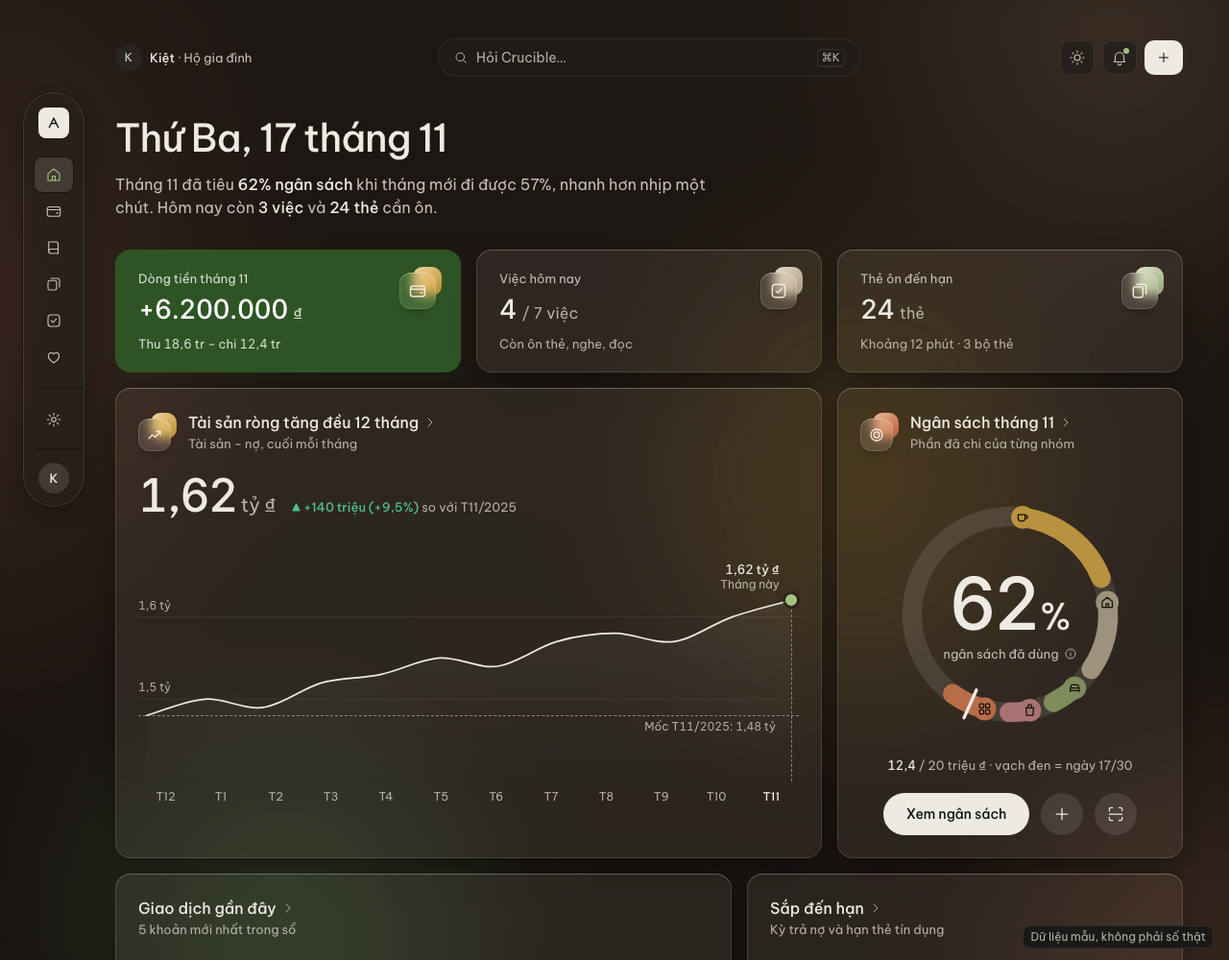
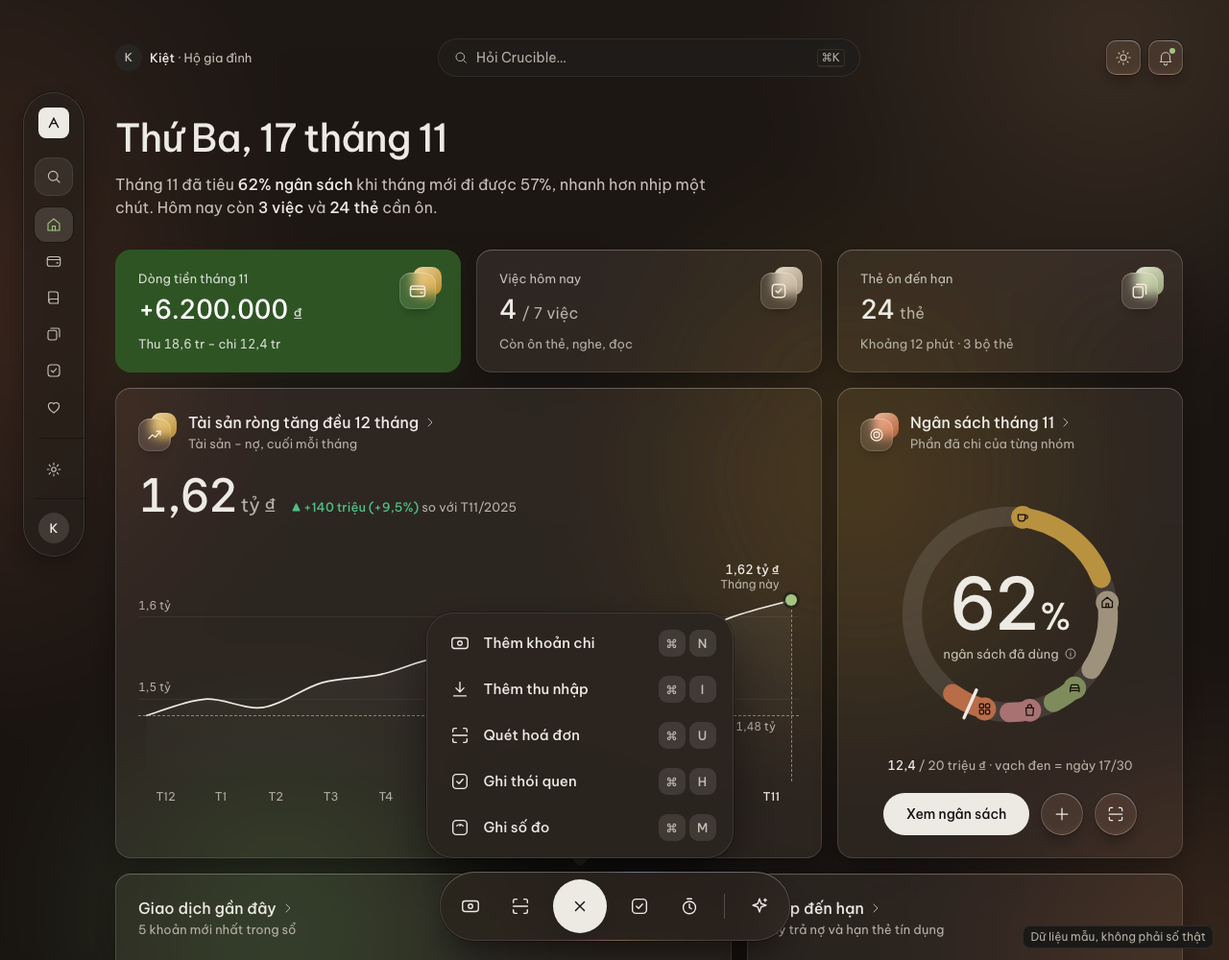
Demo sạch: Liquid Glass cho điều khiển nhỏ, dock thao tác nhanh + menu "+" (có tự ẩn ở 375px), sidebar có ô tìm và cây trạng thái hoá đơn, chồng phiếu ở thẻ chờ duyệt (dữ liệu mẫu)

diff --git a/1991-new-design/demo/clean/demo.html b/1991-new-design/demo/clean/demo.html
@@ -595,6 +595,162 @@ html[data-theme="dark"]{--pt-mix:64%;--pt-tint:.2;--on-bad:#16100B;--on-good:#16
 .bud .rg .st.g{color:var(--good-t);font-weight:500}.bud .rg .st.g i{background:var(--good)}
 @media (max-width:760px){.psplit{grid-template-columns:1fr;gap:20px}.hd.hs .segs{order:3;width:100%}.hd.hs .segs .seg{flex:1 1 auto}.hd.hs .segs .seg button{flex:1}
  .petal .pl .n{font-size:22px;line-height:24px}}
+
+/* =====================================================================
+   LIQUID GLASS cho điều khiển nhỏ (pin o2, o3): nút sáng/tối, chuông, công tắc, chip, nút tròn phụ.
+   Kính trong (trắng 30%), làm mờ CHỈ ở ::before. ::after là viền khúc xạ 1px: gradient hình nón
+   pastel (hồng đất, lavender nhạt, mật ong) ≤ 50% alpha, cắt bằng mask thành sợi mảnh — không neon.
+   Mục đang chọn của công tắc = viên trắng nổi. Chữ vẫn dùng --ink / --glass-muted (≥ 4.5:1).
+   ===================================================================== */
+:root{--lg-fill:rgba(255,255,255,.30);
+  --lg-edge:inset 0 1px 1px rgba(255,255,255,.95),inset 0 -6px 12px -6px rgba(255,255,255,.55),inset 0 0 0 1px rgba(255,255,255,.55),0 0 0 1px rgba(60,40,25,.07),0 8px 18px -6px rgba(60,40,25,.20);
+  --lg-ring:conic-gradient(from 200deg,rgba(255,150,185,.55),rgba(255,255,255,0) 17%,rgba(255,255,255,0) 40%,rgba(140,180,255,.45) 54%,rgba(255,255,255,0) 70%,rgba(255,200,140,.5) 90%,rgba(255,150,185,.55));
+  --lg-on:rgba(255,255,255,.97);
+  --lg-on-sh:0 0 0 1px rgba(255,255,255,.9),0 3px 8px -1px rgba(60,40,25,.22),0 1px 2px rgba(60,40,25,.10)}
+html[data-theme="dark"]{--lg-fill:rgba(255,255,255,.07);
+  --lg-edge:inset 0 1px 1px rgba(255,255,255,.22),inset 0 -6px 12px -6px rgba(255,255,255,.08),inset 0 0 0 1px rgba(255,255,255,.12),0 0 0 1px rgba(0,0,0,.25),0 8px 18px -6px rgba(0,0,0,.5);
+  --lg-ring:conic-gradient(from 200deg,rgba(255,150,185,.34),rgba(255,255,255,0) 17%,rgba(255,255,255,0) 40%,rgba(140,180,255,.30) 54%,rgba(255,255,255,0) 70%,rgba(255,200,140,.32) 90%,rgba(255,150,185,.34));
+  --lg-on:rgba(255,255,255,.17);
+  --lg-on-sh:0 0 0 1px rgba(255,255,255,.2),0 3px 8px -1px rgba(0,0,0,.5)}
+html .round:not(.btn),html[data-theme="dark"] .round:not(.btn),html .ringact .rb{background:transparent;box-shadow:none;position:relative;z-index:0;isolation:isolate}
+html .round:not(.btn)::before,html .ringact .rb::before,html .seg::before,html .chip::before{content:"";position:absolute;inset:0;border-radius:inherit;z-index:-1;pointer-events:none;
+  background:var(--lg-fill);-webkit-backdrop-filter:var(--glass-blur);backdrop-filter:var(--glass-blur);box-shadow:var(--lg-edge)}
+html .card .chip::before,html .card .seg::before{background:var(--lg-fill);-webkit-backdrop-filter:none;backdrop-filter:none}
+html[data-theme="dark"] .card .chip::before,html[data-theme="dark"] .card .seg::before{background:rgba(255,255,255,.08)}
+html .round:not(.btn)::after,html .ringact .rb::after,html .seg::after,html .chip::after,.dock::after{content:"";position:absolute;inset:0;border-radius:inherit;padding:1px;pointer-events:none;z-index:1;
+  background:var(--lg-ring);-webkit-mask:linear-gradient(#000 0 0) content-box,linear-gradient(#000 0 0);-webkit-mask-composite:xor;mask:linear-gradient(#000 0 0) content-box exclude,linear-gradient(#000 0 0)}
+html .ringact .rb{color:var(--ink)}
+html .seg button.on{background:var(--lg-on);box-shadow:var(--lg-on-sh);color:var(--ink)}
+html .round:not(.btn):hover::before,html .ringact .rb:hover::before{background:rgba(255,255,255,.5)}
+html[data-theme="dark"] .round:not(.btn):hover::before{background:rgba(255,255,255,.12)}
+html .mtop .iconbtn:hover{background:transparent}
+
+/* =====================================================================
+   SIDEBAR bung (pin o5): ô tìm ở đầu · hàng rê = nền xám nhạt bo tròn · cây trạng thái hoá đơn
+   dưới Tài chính (mặc định ĐÓNG; chỉ hiện khi sidebar đã bung). Đường cây mảnh nối các mục con.
+   ===================================================================== */
+.sq{display:flex;align-items:center;gap:10px;height:40px;padding:0 11px;margin-bottom:12px;border-radius:14px;background:rgba(60,40,25,.06);box-shadow:inset 0 0 0 1px rgba(60,40,25,.06);color:var(--glass-muted);white-space:nowrap;cursor:text}
+.sq svg{width:18px;height:18px;flex:none}
+.sq input{flex:1;min-width:0;border:0;background:none;font:inherit;color:var(--ink);outline:none}
+.sq input::placeholder{color:var(--glass-muted)}
+.sq:focus-within{background:rgba(255,255,255,.7)}
+.side:not(.open,:focus-within,.pinned) .sq{width:40px}
+html .side .nav{border-radius:12px}
+html .side .nav:hover{background:rgba(60,40,25,.07)}
+html .side .nav.on:hover{background:var(--glass-on)}
+.navrow{display:flex;align-items:center}
+.navrow .nav{flex:1;padding-right:36px}
+.tg{width:28px;height:28px;margin-left:-32px;border-radius:9px;display:grid;place-items:center;flex:none;color:var(--glass-muted);position:relative;z-index:1;transition:background-color 150ms var(--ease)}
+.tg:hover{background:rgba(60,40,25,.09)}
+.tg svg{width:14px;height:14px;fill:currentColor;stroke-width:1.5;transition:transform 180ms var(--ease)}
+.grp.exp .tg svg{transform:rotate(90deg)}
+.side:not(.open,:focus-within,.pinned) .tg{display:none}
+.tree{display:none;position:relative;margin:2px 0 4px 20px}
+.side:is(.open,:focus-within,.pinned) .grp.exp .tree{display:block}
+.tree::before{content:"";position:absolute;left:0;top:0;bottom:19px;border-left:1px solid rgba(60,40,25,.2)}
+.sub{position:relative;display:flex;align-items:center;gap:10px;width:100%;height:34px;margin:0;padding:0 10px 0 24px;border-radius:10px;font-size:14px;font-weight:500;color:var(--ink2);text-align:left;white-space:nowrap;transition:background-color 150ms var(--ease),color 150ms var(--ease)}
+.sub::before{content:"";position:absolute;left:0;top:50%;width:14px;height:0;border-top:1px solid rgba(60,40,25,.2)}
+.sub:last-child::before{top:50%;border-radius:0 0 0 8px}
+.sub:hover,.sub.cur{background:rgba(60,40,25,.07);color:var(--ink)}
+.sub svg{width:16px;height:16px;flex:none}
+.sub.w svg{color:var(--warn)}.sub.g svg{color:var(--good)}.sub.x svg{color:var(--bad)}
+.sub .cnt{margin-left:auto;font-size:13px;line-height:16px;color:var(--glass-muted)}
+html[data-theme="dark"] .sq{background:rgba(255,255,255,.07);box-shadow:inset 0 0 0 1px rgba(255,255,255,.08)}
+html[data-theme="dark"] .side .nav:hover,html[data-theme="dark"] .sub:hover,html[data-theme="dark"] .sub.cur,html[data-theme="dark"] .tg:hover{background:rgba(255,255,255,.08)}
+html[data-theme="dark"] .tree::before,html[data-theme="dark"] .sub::before{border-color:rgba(255,255,255,.2)}
+html[data-theme="dark"] .sq:focus-within{background:rgba(255,255,255,.12)}
+
+/* =====================================================================
+   DOCK thao tác nhanh + MENU bật lên (pin o4, o1). Dock = kính nổi giữa đáy màn hình (máy tính).
+   Nút + giữa dock là viên mực đặc (o3); bấm → menu kính gần đặc phía trên, caret chỉ xuống nút.
+   Điện thoại: KHÔNG có dock (đã gỡ 23/10/2026); nút + trên thanh trên mở cùng menu dạng sheet đáy.
+   ===================================================================== */
+:root{--q-solid:rgba(253,250,245,.94);--q-row:rgba(60,40,25,.07);--q-kc:rgba(60,40,25,.07);--q-kc-hi:#FFFFFF}
+html[data-theme="dark"]{--q-solid:rgba(42,36,31,.95);--q-row:rgba(255,255,255,.09);--q-kc:rgba(255,255,255,.10);--q-kc-hi:rgba(255,255,255,.2)}
+.main{padding-bottom:120px}
+.dock{position:fixed;left:0;right:0;bottom:20px;margin:0 auto;width:max-content;max-width:calc(100vw - 32px);z-index:32;display:flex;align-items:center;gap:4px;padding:8px;border-radius:36px;isolation:isolate}
+.dock::before{content:"";position:absolute;inset:0;border-radius:inherit;z-index:-1;pointer-events:none;background:rgba(255,255,255,.5);
+  -webkit-backdrop-filter:blur(28px) saturate(1.6);backdrop-filter:blur(28px) saturate(1.6);
+  box-shadow:inset 0 1px 1px rgba(255,255,255,.95),inset 0 0 0 1px rgba(255,255,255,.6),0 0 0 1px rgba(60,40,25,.07),0 18px 40px -10px rgba(60,40,25,.32)}
+html[data-theme="dark"] .dock::before{background:rgba(40,34,29,.62);box-shadow:inset 0 1px 1px rgba(255,255,255,.2),inset 0 0 0 1px rgba(255,255,255,.1),0 0 0 1px rgba(0,0,0,.3),0 18px 40px -10px rgba(0,0,0,.6)}
+.dk{position:relative;width:48px;height:48px;border-radius:50%;display:grid;place-items:center;color:var(--ink);transition:background-color 150ms var(--ease),transform 160ms var(--ease)}
+.dk svg{width:22px;height:22px;transition:transform 200ms var(--ease)}
+.dk:hover{background:rgba(60,40,25,.09)}
+.dk:active{transform:scale(.94)}
+html[data-theme="dark"] .dk:hover{background:rgba(255,255,255,.1)}
+.dk.ctr{width:56px;height:56px;margin:0 6px;background:var(--btn);color:var(--btn-ink);box-shadow:0 6px 14px -4px rgba(28,27,25,.45)}
+.dk.ctr:hover{background:var(--btn);opacity:.9}
+.dk.ctr.open svg{transform:rotate(45deg)}
+.dk-sep{width:1px;height:26px;margin:0 8px;background:rgba(60,40,25,.18)}
+html[data-theme="dark"] .dk-sep{background:rgba(255,255,255,.2)}
+.dk[data-tip]::after{content:attr(data-tip);position:absolute;left:50%;bottom:calc(100% + 14px);transform:translate(-50%,4px);padding:4px 10px;border-radius:8px;background:var(--btn);color:var(--btn-ink);font-size:13px;line-height:18px;white-space:nowrap;opacity:0;pointer-events:none;transition:opacity 120ms var(--ease),transform 120ms var(--ease)}
+.dk[data-tip]:is(:hover,:focus-visible)::after{opacity:1;transform:translate(-50%,0)}
+.qscrim{position:fixed;inset:0;z-index:29;display:none}
+.qscrim.on{display:block}
+.qmenu{--mx:50vw;position:fixed;left:var(--mx);bottom:106px;width:320px;margin-left:-160px;z-index:31;padding:8px;border-radius:28px;isolation:isolate;
+  opacity:0;visibility:hidden;transform:translateY(10px) scale(.97);transform-origin:50% 100%;pointer-events:none;
+  transition:opacity 160ms var(--ease),transform 200ms var(--ease),visibility 0s linear 200ms}
+.qmenu.on{opacity:1;visibility:visible;transform:none;pointer-events:auto;transition:opacity 160ms var(--ease),transform 220ms var(--ease),visibility 0s}
+.qmenu::before{content:"";position:absolute;inset:0;border-radius:inherit;z-index:-1;pointer-events:none;background:var(--q-solid);
+  -webkit-backdrop-filter:blur(30px) saturate(1.5);backdrop-filter:blur(30px) saturate(1.5);
+  box-shadow:inset 0 0 0 1px rgba(255,255,255,.8),0 0 0 1px rgba(60,40,25,.06),0 24px 56px -12px rgba(60,40,25,.35)}
+html[data-theme="dark"] .qmenu::before{box-shadow:inset 0 0 0 1px rgba(255,255,255,.1),0 0 0 1px rgba(0,0,0,.3),0 24px 56px -12px rgba(0,0,0,.7)}
+.qcaret{position:absolute;left:50%;bottom:-6px;width:16px;height:16px;margin-left:-8px;transform:rotate(45deg);border-radius:0 0 5px 0;background:var(--q-solid);z-index:-2;box-shadow:3px 3px 8px -3px rgba(60,40,25,.2)}
+.qhead,.qgrab{display:none}
+.qrow{display:grid;grid-template-columns:22px minmax(0,1fr) auto;align-items:center;gap:14px;width:100%;height:48px;padding:0 10px 0 16px;border-radius:20px;text-align:left;font-size:15px;font-weight:500;color:var(--ink);transition:background-color 120ms var(--ease)}
+.qrow svg{width:22px;height:22px}
+.qrow:hover,.qrow:focus-visible{background:var(--q-row)}
+.kcs{display:flex;gap:4px}
+.kc{min-width:28px;height:28px;padding:0 6px;border-radius:9px;display:grid;place-items:center;background:var(--q-kc);color:var(--glass-muted);font-family:var(--fig);font-size:13px;line-height:16px;transition:background-color 120ms var(--ease),color 120ms var(--ease)}
+.qrow:hover .kc,.qrow:focus-visible .kc{background:var(--q-kc-hi);color:var(--ink)}
+
+/* =====================================================================
+   CHỒNG PHIẾU HOÁ ĐƠN (pin o1) ở đầu thẻ "đang chờ duyệt": 3 phiếu kem xếp chồng, hơi nghiêng,
+   mỗi phiếu có ngày lớn + nơi chi; rê chuột vào thẻ thì xoè. Chỉ là trang trí (aria-hidden):
+   thông tin thật nằm ở danh sách bên dưới.
+   ===================================================================== */
+.pend{display:flex;align-items:center;gap:28px;margin-bottom:12px}
+.pend .grow{min-width:0}
+.rstack{position:relative;flex:none;width:216px;height:140px;margin-left:4px}
+.rcp{position:absolute;width:176px;white-space:nowrap;height:68px;padding:6px 14px 0;border-radius:18px;background:#FFFBF4;color:var(--ink);
+  box-shadow:0 0 0 1px rgba(60,40,25,.06),0 10px 22px -10px rgba(60,40,25,.4);transform-origin:20% 90%;
+  transition:transform 320ms var(--ease)}
+.rcp b{display:inline;font-size:20px;line-height:24px;font-weight:600;letter-spacing:-.03em}
+.rcp span{margin-left:8px;font-size:13px;line-height:16px;color:var(--ink2)}
+.rcp i{display:block;margin-top:10px;height:0;border-top:1.5px dashed rgba(60,40,25,.18);width:72%}
+.rcp.r1{left:0;top:70px;transform:rotate(-3deg);z-index:3}
+.rcp.r2{left:14px;top:35px;transform:rotate(1.5deg);z-index:2}
+.rcp.r3{left:28px;top:0;transform:rotate(4.5deg);z-index:1}
+.card:hover .rcp.r1{transform:translate(-4px,6px) rotate(-7deg)}
+.card:hover .rcp.r2{transform:translate(14px,-2px) rotate(3deg)}
+.card:hover .rcp.r3{transform:translate(30px,-6px) rotate(10deg)}
+html[data-theme="dark"] .rcp{background:#3A322B;box-shadow:0 0 0 1px rgba(255,255,255,.1),0 10px 22px -10px rgba(0,0,0,.7)}
+html[data-theme="dark"] .rcp i{border-color:rgba(255,255,255,.2)}
+@media (prefers-reduced-motion:reduce){.rcp,.qmenu,.dk,.dk svg{transition:none}
+  .dock{transition:opacity 200ms linear!important}.dock.hide{transform:none!important}}
+
+@media (max-width:760px){
+  /* Dock điện thoại: 4 icon + nút + (ẩn vạch ngăn và Hỏi Crucible; Tìm kiếm đã ở thanh trên) */
+  .dock{bottom:calc(12px + env(safe-area-inset-bottom));padding:6px;gap:2px;transition:transform 240ms var(--ease),opacity 200ms var(--ease)}
+  .dock.hide{transform:translateY(calc(100% + 24px + env(safe-area-inset-bottom)));opacity:0;pointer-events:none}
+  .dock .dk-sep,.dock .dk[data-tip="Hỏi Crucible"],.dk[data-tip]::after{display:none}
+  .dk{width:48px;height:48px}.dk.ctr{width:54px;height:54px;margin:0 4px}
+  body.qopen .dock{opacity:0;pointer-events:none}
+  .main,body.pinned .main{padding-bottom:calc(112px + env(safe-area-inset-bottom))}
+  .mock{bottom:calc(88px + env(safe-area-inset-bottom));right:8px}
+  .pend{flex-wrap:wrap;gap:16px}
+  .pend .btn{width:100%;justify-content:center;height:44px}
+  .rstack{width:100%;max-width:220px}
+  /* sheet đáy thay cho menu nổi */
+  .qscrim.on{background:rgba(40,28,18,.32)}
+  .qmenu{left:0;right:0;bottom:0;width:auto;margin:0;border-radius:28px 28px 0 0;padding:8px 12px calc(16px + env(safe-area-inset-bottom));transform:translateY(100%);transform-origin:50% 100%}
+  .qmenu.on{transform:none}
+  .qmenu::before{border-radius:inherit}
+  .qcaret,.kcs{display:none}
+  .qgrab{display:block;width:40px;height:4px;border-radius:2px;background:rgba(60,40,25,.25);margin:4px auto 10px}
+  .qhead{display:block;padding:0 16px 6px;font-size:13px;line-height:18px;color:var(--glass-muted)}
+  .qrow{grid-template-columns:22px minmax(0,1fr);height:56px;font-size:16px}
+}
 </style>
 </head>
 <body>
@@ -604,9 +760,20 @@ html[data-theme="dark"]{--pt-mix:64%;--pt-tint:.2;--on-bad:#16100B;--on-good:#16
 <div class="sidewrap">
   <aside class="side" id="side" aria-label="Điều hướng">
     <div class="brand"><span class="logo"><svg width="16" height="16" viewBox="0 0 24 24" fill="none" stroke="currentColor" stroke-width="2" stroke-linecap="round"><path d="M5 19 12 5l7 14"/><path d="M8.5 13h7"/></svg></span><span class="lbl">Crucible</span><button class="pin lbl" id="pinBtn" aria-label="Ghim thanh bên" title="Ghim thanh bên"><svg data-i="pin"></svg></button></div>
+    <label class="sq"><svg data-i="search"></svg><input class="lbl" placeholder="Tìm trang, hoá đơn…" aria-label="Tìm trong Crucible"></label>
     <nav class="navs">
       <button class="nav" data-view="tongquan"><svg data-i="home"></svg><span class="lbl">Tổng quan</span></button>
-      <button class="nav" data-view="taichinh"><svg data-i="wallet"></svg><span class="lbl">Tài chính</span><span class="cnt lbl" title="3 hoá đơn chờ duyệt">3</span></button>
+      <div class="grp" id="finGrp">
+        <div class="navrow">
+          <button class="nav" data-view="taichinh"><svg data-i="wallet"></svg><span class="lbl">Tài chính</span><span class="cnt lbl" title="3 hoá đơn chờ duyệt">3</span></button>
+          <button class="tg lbl" id="finTg" aria-expanded="false" aria-controls="finTree" aria-label="Mở trạng thái hoá đơn" title="Trạng thái hoá đơn"><svg data-i="tri"></svg></button>
+        </div>
+        <div class="tree" id="finTree" role="group" aria-label="Trạng thái hoá đơn">
+          <button class="sub w" data-view="taichinh"><svg data-i="clock"></svg><span>Chờ duyệt</span><span class="cnt">3</span></button>
+          <button class="sub g" data-view="taichinh"><svg data-i="check"></svg><span>Đã ghi sổ</span></button>
+          <button class="sub x" data-view="taichinh"><svg data-i="xbox"></svg><span>Trùng lặp</span><span class="cnt">1</span></button>
+        </div>
+      </div>
       <button class="nav"><svg data-i="book"></svg><span class="lbl">Kiến thức</span></button>
       <button class="nav"><svg data-i="cards"></svg><span class="lbl">Học tập</span></button>
       <button class="nav"><svg data-i="check"></svg><span class="lbl">Thói quen</span></button>
@@ -627,8 +794,7 @@ html[data-theme="dark"]{--pt-mix:64%;--pt-tint:.2;--on-bad:#16100B;--on-good:#16
       <span class="grow"></span>
       <button class="iconbtn" aria-label="Tìm kiếm"><svg data-i="search"></svg></button>
       <button class="iconbtn" aria-label="Thông báo"><svg data-i="bell"></svg><span class="dot"></span></button>
-      <button class="btn" aria-label="Ghi nhanh"><svg data-i="plus"></svg></button>
-    </div>
+          </div>
     <nav class="mnav">
       <button class="nav" data-view="tongquan">Tổng quan</button>
       <button class="nav" data-view="taichinh">Tài chính</button>
@@ -643,7 +809,6 @@ html[data-theme="dark"]{--pt-mix:64%;--pt-tint:.2;--on-bad:#16100B;--on-good:#16
       <div class="right">
         <button class="iconbtn round" id="themeBtn" aria-label="Đổi sáng/tối" title="Đổi sáng/tối"><svg data-i="moon"></svg></button>
         <button class="iconbtn round" aria-label="Thông báo" title="Thông báo"><svg data-i="bell"></svg><span class="dot"></span></button>
-        <button class="btn round" aria-label="Ghi nhanh" title="Ghi nhanh"><svg data-i="plus"></svg></button>
       </div>
     </div>
 
@@ -743,7 +908,15 @@ html[data-theme="dark"]{--pt-mix:64%;--pt-tint:.2;--on-bad:#16100B;--on-good:#16
         </div>
 
         <div class="card c12">
-          <div class="hd"><div class="grow"><div class="t">3 hoá đơn đang chờ duyệt</div><div class="s">Đã quét và lưu nháp, chưa vào sổ</div></div><button class="btn">Duyệt 3 hoá đơn</button></div>
+          <div class="pend">
+            <div class="rstack" aria-hidden="true">
+              <div class="rcp r3"><b class="num">15/11</b><span>Phúc Long</span><i></i></div>
+              <div class="rcp r2"><b class="num">16/11</b><span>Pharmacity</span><i></i></div>
+              <div class="rcp r1"><b class="num">17/11</b><span>Co.opmart</span><i></i></div>
+            </div>
+            <div class="grow"><div class="t" style="font-size:20px;line-height:28px;font-weight:500;letter-spacing:-.02em">3 hoá đơn đang chờ duyệt</div><div class="s" style="color:var(--muted);font-size:13px">Đã quét và lưu nháp, chưa vào sổ</div></div>
+            <button class="btn">Duyệt 3 hoá đơn</button>
+          </div>
           <div class="list">
             <div class="li"><span class="gi spend"><svg data-i="cart"></svg></span><div class="grow"><div class="p">Co.opmart Xa Lộ Hà Nội</div><div class="s">Quét lúc 08:12 · gợi ý nhóm Ăn uống</div></div><div class="r num">684.000 ₫</div></div>
             <div class="li"><span class="gi health"><svg data-i="receipt"></svg></span><div class="grow"><div class="p">Pharmacity</div><div class="s">Telegram · hôm qua · gợi ý nhóm Sức khoẻ</div></div><div class="r num">236.000 ₫</div></div>
@@ -802,6 +975,26 @@ html[data-theme="dark"]{--pt-mix:64%;--pt-tint:.2;--on-bad:#16100B;--on-good:#16
   </main>
 </div>
 </div>
+<!-- Dock thao tác nhanh. Máy tính: giữa đáy, luôn hiện. Điện thoại (≤760px): CÓ dock đáy theo quyết định mới của chủ dự án (thay quyết định gỡ dock 23/10/2026), thu gọn 4 icon + nút +, tự ẩn khi lướt xuống. Nút + mở menu; điện thoại thì menu là sheet đáy. -->
+<div class="qscrim" id="qScrim"></div>
+<div class="qmenu" id="qMenu" role="menu" aria-label="Ghi nhanh" aria-hidden="true">
+  <div class="qgrab" aria-hidden="true"></div><div class="qhead">Ghi nhanh</div>
+  <button class="qrow" role="menuitem"><svg data-i="cash"></svg><span>Thêm khoản chi</span><span class="kcs"><span class="kc">⌘</span><span class="kc">N</span></span></button>
+  <button class="qrow" role="menuitem"><svg data-i="income"></svg><span>Thêm thu nhập</span><span class="kcs"><span class="kc">⌘</span><span class="kc">I</span></span></button>
+  <button class="qrow" role="menuitem"><svg data-i="scan"></svg><span>Quét hoá đơn</span><span class="kcs"><span class="kc">⌘</span><span class="kc">U</span></span></button>
+  <button class="qrow" role="menuitem"><svg data-i="check"></svg><span>Ghi thói quen</span><span class="kcs"><span class="kc">⌘</span><span class="kc">H</span></span></button>
+  <button class="qrow" role="menuitem"><svg data-i="scale"></svg><span>Ghi số đo</span><span class="kcs"><span class="kc">⌘</span><span class="kc">M</span></span></button>
+  <i class="qcaret"></i>
+</div>
+<nav class="dock" aria-label="Thao tác nhanh">
+  <button class="dk" data-tip="Thêm khoản chi" aria-label="Thêm khoản chi"><svg data-i="cash"></svg></button>
+  <button class="dk" data-tip="Quét hoá đơn" aria-label="Quét hoá đơn"><svg data-i="scan"></svg></button>
+  <button class="dk ctr" id="qBtn" aria-label="Mở menu ghi nhanh" aria-haspopup="menu" aria-expanded="false"><svg data-i="plus"></svg></button>
+  <button class="dk" data-tip="Ghi thói quen" aria-label="Ghi thói quen"><svg data-i="check"></svg></button>
+  <button class="dk" data-tip="Bấm giờ" aria-label="Bấm giờ"><svg data-i="timer"></svg></button>
+  <span class="dk-sep" aria-hidden="true"></span>
+  <button class="dk" data-tip="Hỏi Crucible" aria-label="Hỏi Crucible"><svg data-i="spark"></svg></button>
+</nav>
 <div class="mock">Dữ liệu mẫu, không phải số thật</div>
 
 <script>
@@ -843,6 +1036,12 @@ const I={
  bars:'<path d="M5 20v-8M10 20V6M15 20v-9M20 20V9"/>',
  card:'<rect x="3" y="5.5" width="18" height="13" rx="2.5"/><path d="M3 10h18M7 15h3"/>',
  phone:'<rect x="7" y="3" width="10" height="18" rx="2.5"/><path d="M11 18h2"/>',
+ tri:'<path d="M8 6.5v11l9-5.5z"/>',
+ clock:'<circle cx="12" cy="12" r="8.5"/><path d="M12 7.5V12l3 2"/>',
+ xbox:'<rect x="4" y="4" width="16" height="16" rx="4"/><path d="m9 9 6 6M15 9l-6 6"/>',
+ income:'<path d="M12 4v11M7.5 10.5 12 15l4.5-4.5M5 19.5h14"/>',
+ timer:'<circle cx="12" cy="13.5" r="7"/><path d="M12 9.5v4l2.5 1.5M9.5 3.5h5"/>',
+ spark:'<path d="M12 3.5 13.9 9l5.6 1.9-5.6 1.9L12 18.5l-1.9-5.7L4.5 10.9 10.1 9z"/><path d="M18.5 3.5v3M17 5h3"/>',
  image:'<rect x="3.5" y="4.5" width="17" height="15" rx="3"/><circle cx="9" cy="10" r="1.5"/><path d="m20.5 16-5-5-8.5 8.5"/>'
 };
 const paint=s=>{s.setAttribute('viewBox','0 0 24 24');s.setAttribute('fill','none');s.setAttribute('stroke','currentColor');s.setAttribute('stroke-width','1.5');s.setAttribute('stroke-linecap','round');s.setAttribute('stroke-linejoin','round');s.innerHTML=I[s.dataset.i]||'';};
@@ -1101,6 +1300,32 @@ show(q.get('v')||'tongquan');theme(q.get('theme')||'light');
 let saved='';try{saved=localStorage.getItem('crucible-pin')||''}catch(e){}
 pin(q.get('side')==='pin'||(!q.get('side')&&!!saved));
 if(q.get('side')==='open') side.classList.add('open');
+/* Cây trạng thái hoá đơn: mặc định ĐÓNG */
+const finG=document.getElementById('finGrp'),finTg=document.getElementById('finTg');
+function tree(on){finG.classList.toggle('exp',on);finTg.setAttribute('aria-expanded',on?'true':'false')}
+finTg.onclick=()=>tree(!finG.classList.contains('exp'));
+finG.querySelectorAll('.sub').forEach(b=>b.onclick=()=>{show('taichinh');finG.querySelectorAll('.sub').forEach(x=>x.classList.toggle('cur',x===b))});
+if(q.get('tree')==='1')tree(true);
+/* Menu ghi nhanh: dock (máy tính) và nút + trên thanh trên (điện thoại) mở CÙNG một menu */
+const qm=document.getElementById('qMenu'),qs=document.getElementById('qScrim'),qb=document.getElementById('qBtn'),dock=document.querySelector('.dock');
+function qplace(){const r=qb.getBoundingClientRect();qm.style.setProperty('--mx',(r.left+r.width/2)+'px')}
+function qopen(on){qplace();qm.classList.toggle('on',on);qs.classList.toggle('on',on);qm.setAttribute('aria-hidden',on?'false':'true');
+ document.body.classList.toggle('qopen',on);qb.setAttribute('aria-expanded',on?'true':'false');qb.classList.toggle('open',on)}
+qb.addEventListener('click',e=>{e.stopPropagation();qopen(!qm.classList.contains('on'))});
+qs.onclick=()=>qopen(false);
+qm.querySelectorAll('.qrow').forEach(b=>b.onclick=()=>qopen(false));
+document.addEventListener('keydown',e=>{if(e.key==='Escape')qopen(false)});
+addEventListener('resize',qplace);
+if(q.get('menu')==='1')qopen(true);
+/* Dock điện thoại tự ẩn: lướt XUỐNG (>8px) → trượt khuất; lướt LÊN, dừng 600ms hoặc chạm cuối trang → hiện lại.
+   Một listener scroll passive + rAF; chỉ chạy ở ≤760px. */
+const mm=matchMedia('(max-width:760px)');let lastY=scrollY,ticking=false,idleT,frozen=q.get('dock')==='hide';
+function dockHide(h){dock.classList.toggle('hide',h&&!qm.classList.contains('on'))}
+addEventListener('scroll',()=>{if(ticking||frozen)return;ticking=true;requestAnimationFrame(()=>{ticking=false;if(!mm.matches)return;
+  const y=scrollY,d=y-lastY,end=innerHeight+y>=document.documentElement.scrollHeight-4;
+  if(end||y<=0)dockHide(false);else if(d>8){dockHide(true);lastY=y}else if(d<-8){dockHide(false);lastY=y}
+  clearTimeout(idleT);idleT=setTimeout(()=>dockHide(false),600)})},{passive:true});
+if(frozen)dockHide(true);
 </script>
 </body>
 </html>
